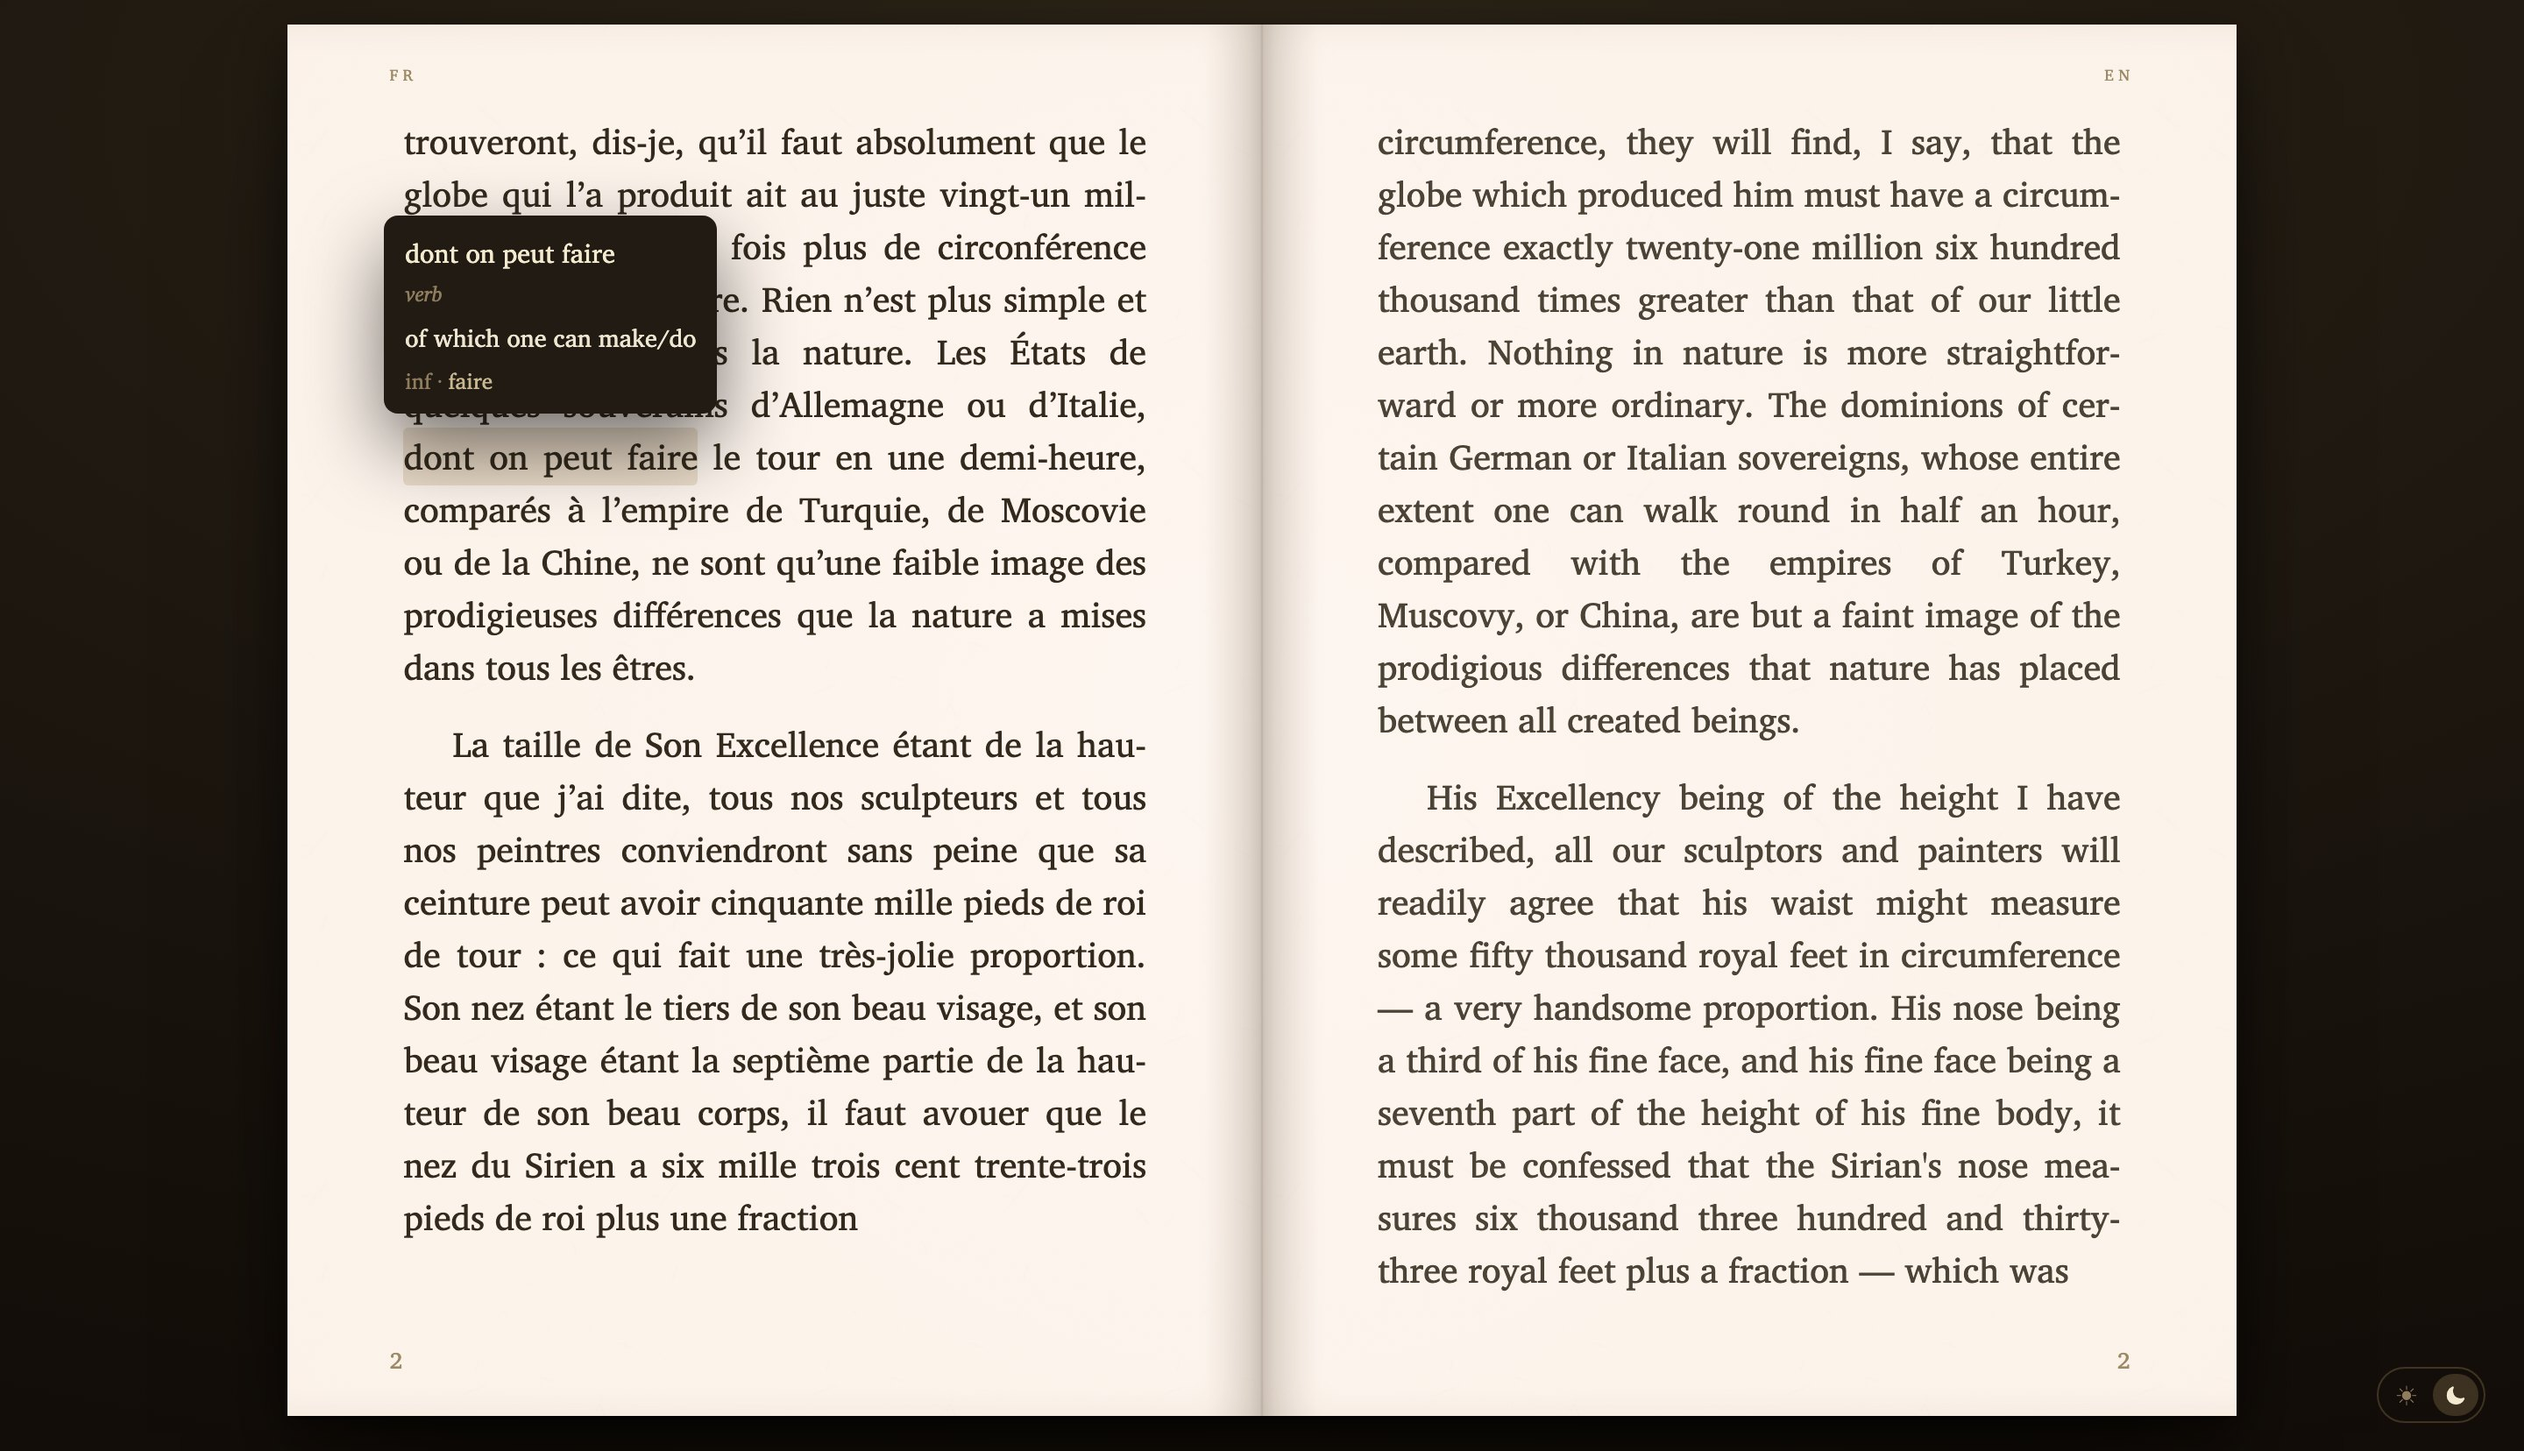
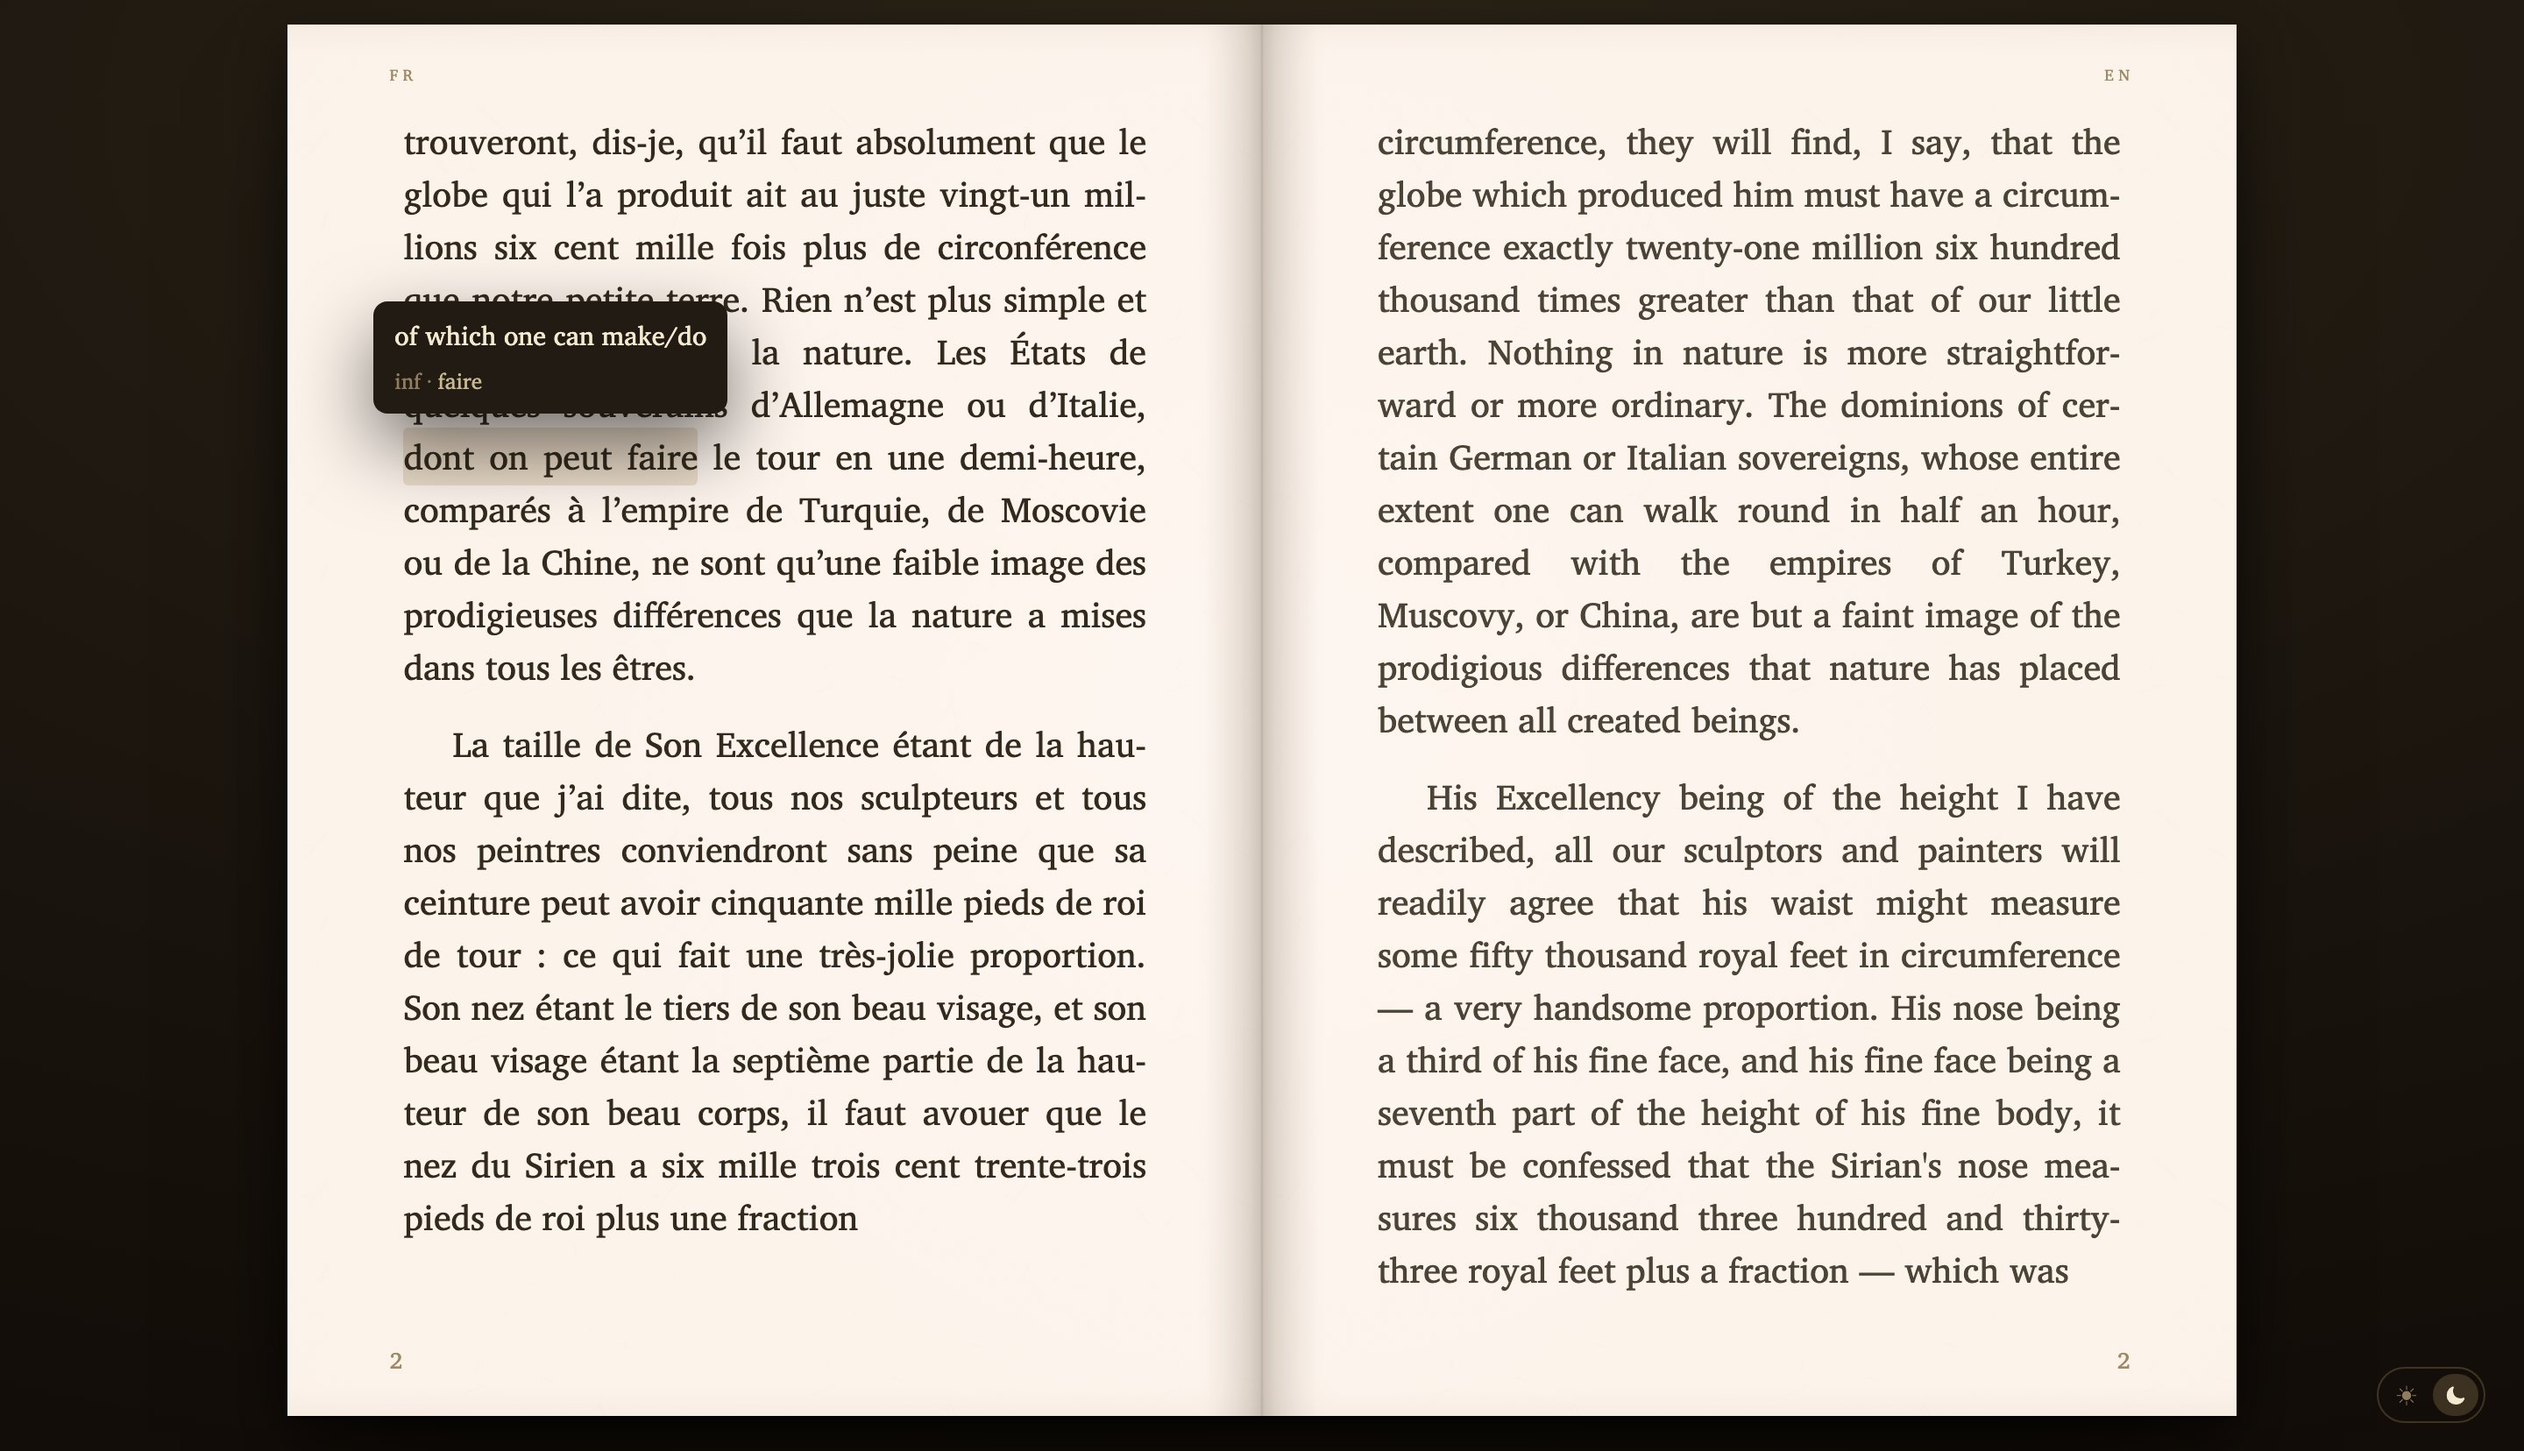
docs: the screenshots are of today's reader, not of the day the book was published
The shots were taken from web/books/micromegas.html, which carries whatever
reader it was last rewrapped with — so they photographed labels the templates
had already moved past. The hero showed a blur pill reading `Blur translation`
where main had since said `Cover the English` and now says `Blur the English`,
and the caption claimed the hover gives a part of speech, which 60ac32a took out
of the panel on purpose.

Recaptured against `render.rewrap` of the same book, which re-sets it in the
current templates and costs nothing, so the pictures now age with the reader
rather than with the last publish. The builder and shelf shots are rebuilt from
web/dist too, since 3205d06 changed that page.

Test counts corrected while here: 1,111 collected, 374 of them browser-driven,
against the ~1,080 and ~174 the docs claimed. And web/README gains the row a
build now lands on, which is the one feature that shipped after the docs pass.

Changed region(s): [[0.125, 0.1232, 0.3125, 0.2772]]

diff --git a/README.md b/README.md
@@ -33,12 +33,12 @@ the command line and in the [web builder](web/README.md):
 
 <p align="center">
   <img src="docs/screenshots/gloss.jpg" width="860"
-       alt="Hovering the French phrase 'dont on peut faire' shows a tooltip giving its part of speech, its translation in context, and the infinitive 'faire'">
+       alt="Hovering the French phrase 'dont on peut faire' shows a small tooltip giving its meaning in context, 'of which one can make/do', and the infinitive 'faire'">
   <br>
-  <sub><em>Hover a phrase for its translation in context. The target is a
-  <em>unit</em>, not a word — an article or a preposition is glossed together with
-  the word it attaches to — and a verb also shows its infinitive, with the passé
-  composé beside a passé simple.</em></sub>
+  <sub><em>Hover a phrase for what it means here. The target is a <em>unit</em>,
+  not a word — an article or a preposition is glossed together with the word it
+  attaches to — and a verb also shows its infinitive, with the passé composé
+  beside a passé simple.</em></sub>
 </p>
 
 <p align="center">
@@ -404,10 +404,10 @@ pip install -e ".[dev]"
 pytest
 ```
 
-That is about 1,080 Python tests, and **no test touches the network or needs a
-key**, so the whole suite runs for free as often as you like. The model is a
-fake that echoes structured replies, including malformed and truncated ones, and
-the provider clients are tested against stubbed SDK responses.
+That is about 1,110 tests, and **not one touches the network or needs a key**, so
+the whole suite runs for free as often as you like. The model is a fake that
+echoes structured replies, including malformed and truncated ones, and the
+provider clients are tested against stubbed SDK responses.
 
 The reader and the builder are driven in a real browser, because their bugs live
 in layout and timing — pagination measured against a box that had not been laid
@@ -420,7 +420,7 @@ the browser extra is installed:
 ```sh
 pip install -e ".[browser]" && playwright install chromium webkit
 pytest tests/test_reader_js.py       # 76 tests × 2 engines, the reader
-pytest tests/test_builder_js.py      # 90 tests × 2 engines, the builder
+pytest tests/test_builder_js.py      # 99 tests × 2 engines, the builder
 pytest tests/test_gloss_pool_js.py   #  8 tests × 2 engines, the gloss pool
 BIREAD_ENGINES=chromium pytest tests/test_reader_js.py   # one engine, when it must be quick
 ```

diff --git a/web/README.md b/web/README.md
@@ -52,9 +52,18 @@ book and never a word of text, which is what keeps it a tool rather than a host.
   the replies — while the transport moved out, because that pass is nothing but
   network. A local Ollama gets one hand instead of six, since a second request
   there only queues on the same card.
-- **A book need not be fully glossed to be read.** The build makes the opening,
-  and the finished book carries the protocol so the rest is made on the reader's
-  own key, one request at a time, as they read.
+- **A book need not be fully glossed to be read.** The build makes the opening —
+  measured in characters of the original rather than a count of paragraphs, since
+  a book set in short dialogue lines and one set in long ones share nothing but
+  the number — and the finished book carries the protocol so the rest is made on
+  the reader's own key, one request at a time, as they read.
+- **A book you built has somewhere to be found.** Every build also goes into the
+  browser's own storage and stands on a row at the top of the front door, so the
+  way back to it is not remembering what the file was called. That row is
+  emphatically **not** the shelf: the shelf below is published and vouched for,
+  and this is one person's own files. It says so in its own words, nothing about
+  it reaches a server, and it is one browser only — clearing site data takes the
+  row with it, which is why the file itself is still offered on the card.
 
 Two things the page will tell a reader before they pay: that their file is a
 **photograph of a book** rather than a typeset one, since biread leaves OCR

diff --git a/CONTRIBUTING.md b/CONTRIBUTING.md
@@ -30,14 +30,14 @@ pip install -e ".[browser]" && playwright install chromium webkit
 pytest
 ```
 
-That is about 1,080 Python tests, and the suite **needs no network and no API
-key** — the model is faked and the fixtures are canned — so you can run all of
-it for free, as often as you like. On top of that sit 174 browser tests (the
-reader, the builder, and the gloss pool), each run once in Chromium and once in
-WebKit; they and the EPUB/PDF export render tests skip themselves unless the
-`[browser]` extra is installed. WebKit is roughly six times slower, so narrowing
-with `BIREAD_ENGINES=chromium` is worth it in a tight loop and not before a
-merge.
+That is about 1,110 tests, and the suite **needs no network and no API key** —
+the model is faked and the fixtures are canned — so you can run all of it for
+free, as often as you like. Roughly 370 of them drive a real browser (the
+reader, the builder, and the gloss pool), because each of those runs once in
+Chromium and once in WebKit; they and the EPUB/PDF export render tests skip
+themselves unless the `[browser]` extra is installed. WebKit is roughly six
+times slower, so narrowing with `BIREAD_ENGINES=chromium` is worth it in a tight
+loop and not before a merge.
 
 One suite is opt-in because it boots Pyodide from a CDN and reads `web/dist`:
 
